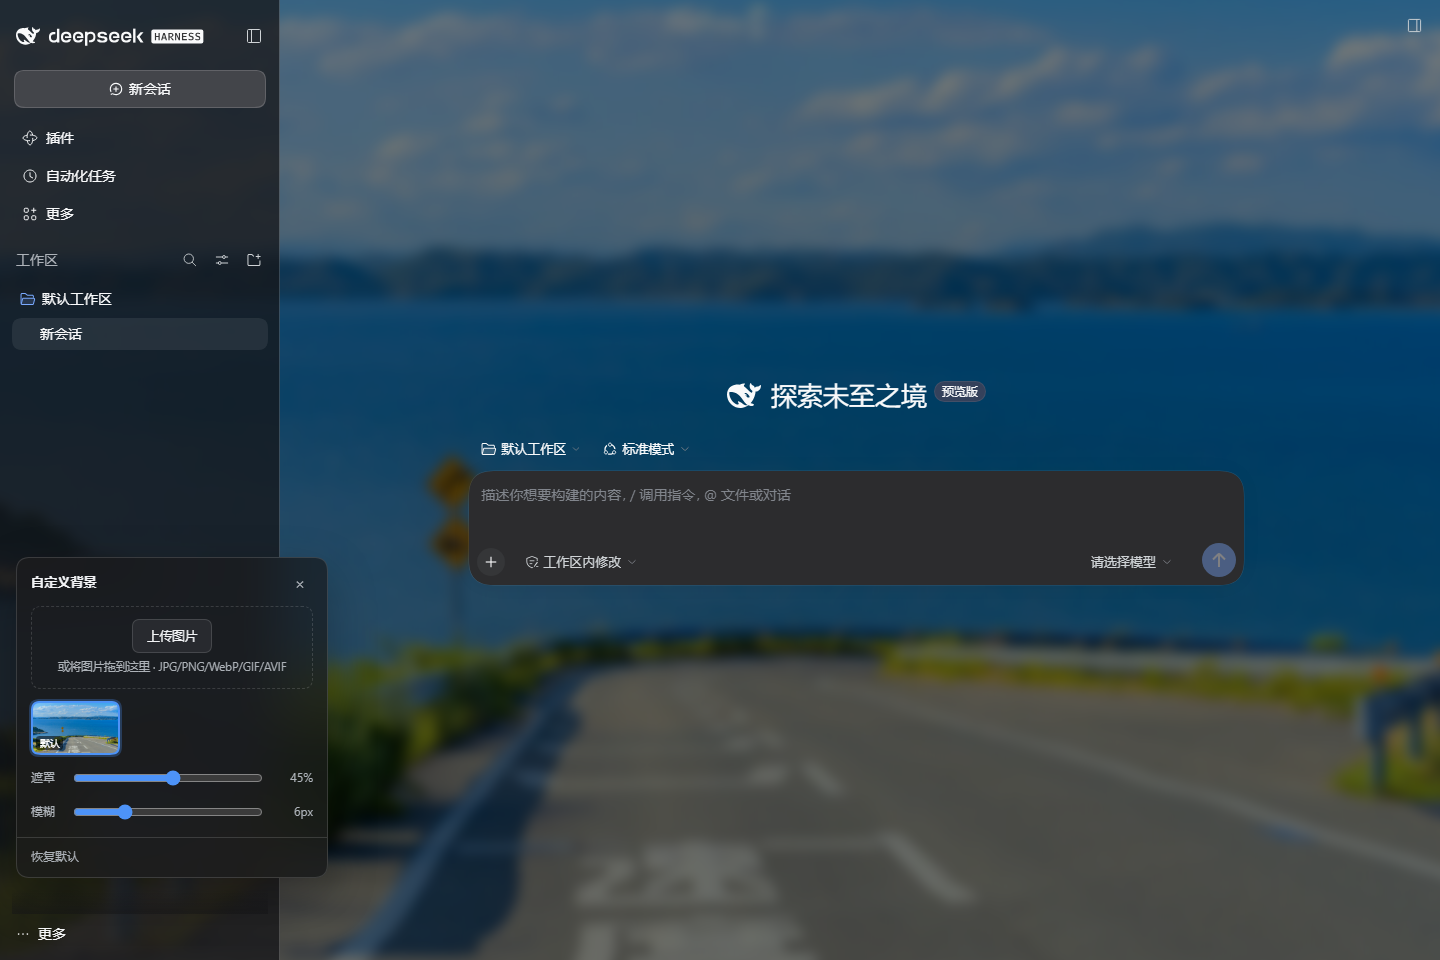
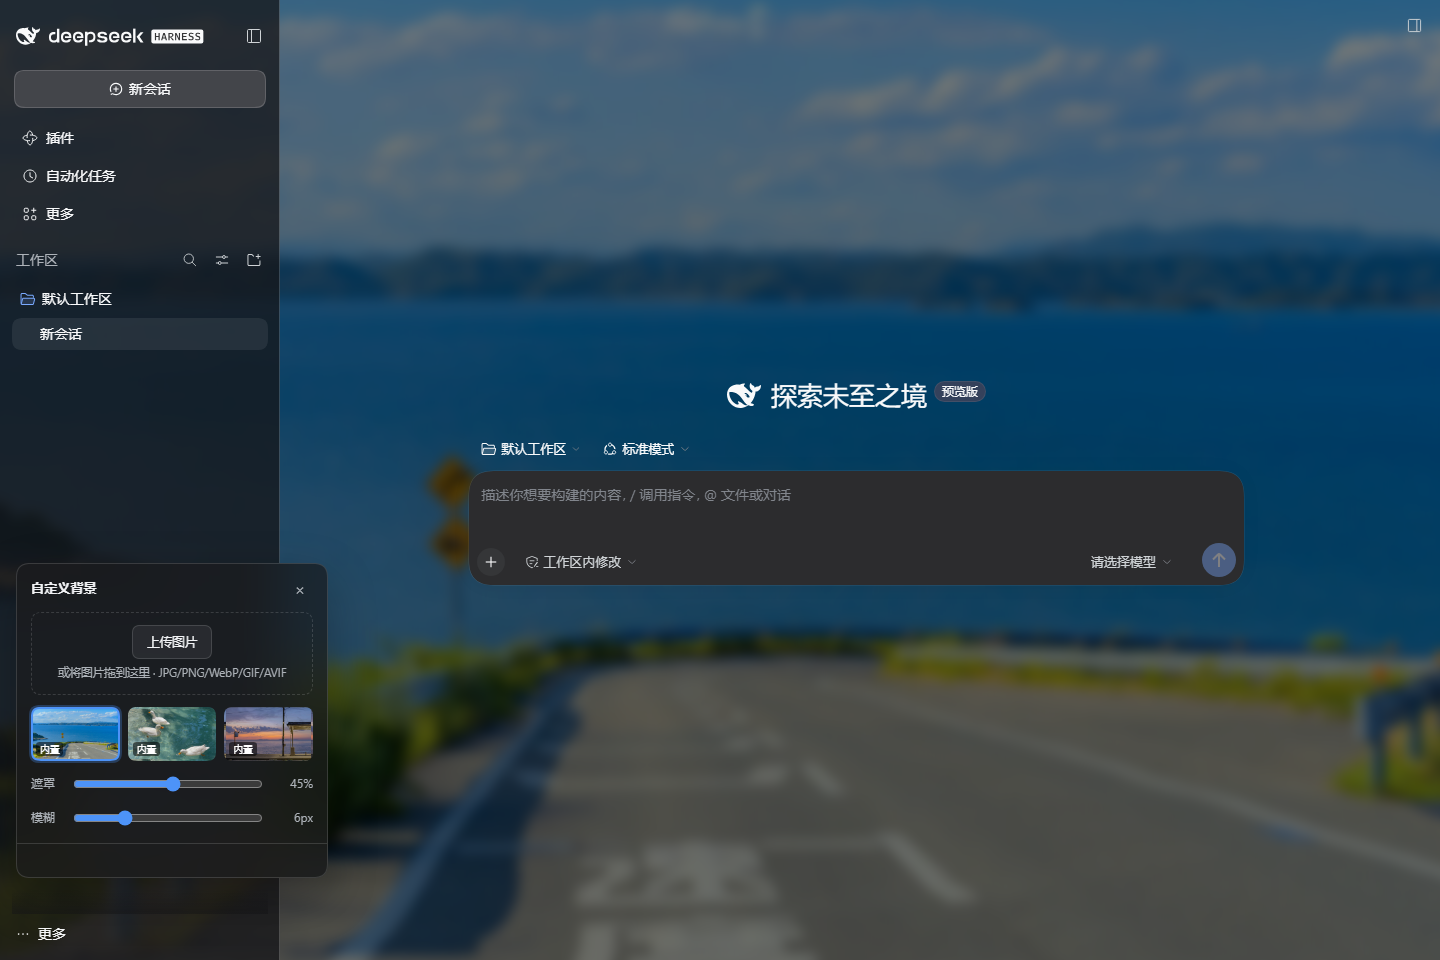
fix: 调整默认背景图片

Changed region(s): [[0.0, 0.625, 0.2188, 0.9062], [0.0, 0.5938, 0.0625, 0.625], [0.1875, 0.5625, 0.2188, 0.5938]]

diff --git a/lib/index.js b/lib/index.js
@@ -33,8 +33,16 @@ export const inject = ['webServer']
  */
 const ROUTE_PREFIX = '/custom-bg'
 
-/** Id of the built-in background shipped inside the package. */
-const DEFAULT_IMAGE = { id: 'default', ext: 'jpg', builtin: true, name: 'default.jpg' }
+/**
+ * Backgrounds shipped inside the package. `default` is the one a fresh profile
+ * starts on; the rest are ready-made wallpapers the panel offers next to the
+ * user's own uploads.
+ */
+const BUILTIN_IMAGES = [
+  { id: 'default', ext: 'jpg', file: 'default.jpg' },
+  { id: 'ducks', ext: 'jpg', file: 'ducks.jpg' },
+  { id: 'seaside', ext: 'jpg', file: 'seaside.jpg' },
+]
 
 /** Extensions the store accepts, mapped to the response content type. */
 const MIME = {
@@ -176,10 +184,20 @@ async function readJson(req) {
  * Create the wallpaper store: files under `dataDir`, settings in `state.json`.
  * Every mutation is serialized so interleaved uploads cannot lose an entry.
  * @param dataDir - absolute directory owned by this plugin.
- * @param builtinPath - absolute path of the shipped default image.
+ * @param builtinDir - absolute directory holding the shipped wallpapers.
  */
-function createStore(dataDir, builtinPath) {
+function createStore(dataDir, builtinDir) {
   const statePath = join(dataDir, 'state.json')
+  const builtins = BUILTIN_IMAGES.map((entry) => ({
+    id: entry.id,
+    ext: entry.ext,
+    file: entry.file,
+    path: join(builtinDir, entry.file),
+    builtin: true,
+    name: entry.file,
+  }))
+  /** Wallpaper a profile falls back to when its active image disappears. */
+  const fallbackId = builtins[0].id
   let queue = Promise.resolve()
   /** @type {{ active?: string, images?: object[], settings?: object }} */
   let cache
@@ -239,7 +257,16 @@ function createStore(dataDir, builtinPath) {
       builtin: false,
       url: imageUrl(entry.id, entry.ext),
     }))
-    const all = [{ ...DEFAULT_IMAGE, url: imageUrl(DEFAULT_IMAGE.id, DEFAULT_IMAGE.ext) }, ...images]
+    const all = [
+      ...builtins.map((entry) => ({
+        id: entry.id,
+        ext: entry.ext,
+        builtin: true,
+        name: entry.name,
+        url: imageUrl(entry.id, entry.ext),
+      })),
+      ...images,
+    ]
     const active = all.find((entry) => entry.id === state.active) ?? all[0]
     return { version: 1, active, images: all, settings: { ...state.settings } }
   }
@@ -274,7 +301,7 @@ function createStore(dataDir, builtinPath) {
   /** Activate an image that already exists. */
   async function select(id) {
     const state = await readState()
-    const known = id === DEFAULT_IMAGE.id || state.images.some((entry) => entry.id === id)
+    const known = builtins.some((entry) => entry.id === id) || state.images.some((entry) => entry.id === id)
     if (!known) return { error: 'unknown-image' }
     return mutate(async (draft) => {
       draft.active = id
@@ -282,15 +309,15 @@ function createStore(dataDir, builtinPath) {
     })
   }
 
-  /** Delete one uploaded image; the built-in background cannot be deleted. */
+  /** Delete one uploaded image; the bundled wallpapers cannot be deleted. */
   async function remove(id) {
-    if (id === DEFAULT_IMAGE.id) return { error: 'builtin-image' }
+    if (builtins.some((entry) => entry.id === id)) return { error: 'builtin-image' }
     const state = await readState()
     const entry = state.images.find((candidate) => candidate.id === id)
     if (entry === undefined) return { error: 'unknown-image' }
     return mutate(async (draft) => {
       draft.images = draft.images.filter((candidate) => candidate.id !== id)
-      if (draft.active === id) draft.active = DEFAULT_IMAGE.id
+      if (draft.active === id) draft.active = fallbackId
       await fs.rm(join(dataDir, `${entry.id}.${entry.ext}`), { force: true })
       return { id }
     })
@@ -312,7 +339,8 @@ function createStore(dataDir, builtinPath) {
    * @returns the file path, or undefined when nothing matches.
    */
   async function imageFile(id, ext) {
-    if (id === DEFAULT_IMAGE.id) return ext === DEFAULT_IMAGE.ext ? builtinPath : undefined
+    const builtin = builtins.find((entry) => entry.id === id)
+    if (builtin !== undefined) return ext === builtin.ext ? builtin.path : undefined
     const state = await readState()
     const entry = state.images.find((candidate) => candidate.id === id)
     if (entry === undefined || entry.ext !== ext) return undefined
@@ -335,8 +363,8 @@ function createStore(dataDir, builtinPath) {
  */
 export function apply(ctx, config = {}) {
   const dataDir = config.dataDir ?? join(resolveDshHome(config.dshHome), 'plugin-data', 'dsh-custom-bg')
-  const builtinPath = fileURLToPath(new URL('../imgs/default.jpg', import.meta.url))
-  const store = createStore(dataDir, builtinPath)
+  const builtinDir = fileURLToPath(new URL('../imgs', import.meta.url))
+  const store = createStore(dataDir, builtinDir)
   const imagePattern = /^([a-z0-9-]{2,40})\.(jpe?g|png|webp|gif|avif)$/u
 
   /**

diff --git a/lib/client.js b/lib/client.js
@@ -80,10 +80,8 @@ body[data-ds-dark-theme]{--dsw-specific-sidebar-fill:rgba(21,21,23,var(--cbg-sid
 #${ROOT_ID} .cbg-row label{width:30px;color:var(--cbg-label-dim);flex:none}
 #${ROOT_ID} .cbg-row input[type=range]{flex:1;min-width:0;accent-color:#4d93f8;height:18px;cursor:pointer}
 #${ROOT_ID} .cbg-row output{width:38px;text-align:right;font-variant-numeric:tabular-nums;color:var(--cbg-label-dim)}
-#${ROOT_ID} .cbg-foot{display:flex;align-items:center;justify-content:space-between;gap:8px;padding:10px 14px 12px;
+#${ROOT_ID} .cbg-foot{display:flex;align-items:center;justify-content:flex-end;gap:8px;padding:10px 14px 12px;
   border-top:1px solid var(--cbg-border);margin-top:10px}
-#${ROOT_ID} .cbg-link{border:0;background:transparent;color:var(--cbg-label-dim);font:inherit;font-size:12px;cursor:pointer;padding:0}
-#${ROOT_ID} .cbg-link:hover{color:var(--cbg-label);text-decoration:underline}
 #${ROOT_ID} .cbg-status{font-size:11.5px;color:var(--cbg-label-dim);min-height:1em;flex:1;text-align:right;
   overflow:hidden;text-overflow:ellipsis;white-space:nowrap}
 @media (prefers-reduced-motion:reduce){#${ROOT_ID} *{transition:none!important}}
@@ -168,7 +166,6 @@ body[data-ds-dark-theme]{--dsw-specific-sidebar-fill:rgba(21,21,23,var(--cbg-sid
       const blurOut = el('output', { text: '6px' })
 
       const status = el('span', { class: 'cbg-status' })
-      const resetButton = el('button', { class: 'cbg-link', type: 'button', text: '恢复默认' })
       const closeButton = el('button', { class: 'cbg-icon-btn', type: 'button', title: '收起', 'aria-label': '收起', text: '×' })
       const bubble = el('button', {
         class: 'cbg-bubble',
@@ -191,7 +188,7 @@ body[data-ds-dark-theme]{--dsw-specific-sidebar-fill:rgba(21,21,23,var(--cbg-sid
           el('div', { class: 'cbg-row' }, [el('label', { text: '遮罩' }), scrimRange, scrimOut]),
           el('div', { class: 'cbg-row' }, [el('label', { text: '模糊' }), blurRange, blurOut]),
         ]),
-        el('div', { class: 'cbg-foot' }, [resetButton, status]),
+        el('div', { class: 'cbg-foot' }, [status]),
       ])
 
       const root = el('div', { id: ROOT_ID, dataset: { open: 'false' } }, [bubble, panel])
@@ -222,15 +219,16 @@ body[data-ds-dark-theme]{--dsw-specific-sidebar-fill:rgba(21,21,23,var(--cbg-sid
       function renderGrid(active) {
         grid.replaceChildren()
         for (const image of state.images ?? []) {
+          const label = image.builtin === true ? `内置 · ${image.name ?? image.id}` : image.name ?? image.id
           const thumb = el('button', {
             class: 'cbg-thumb',
             type: 'button',
-            title: image.builtin ? '默认背景' : image.name ?? image.id,
-            'aria-label': image.builtin ? '默认背景' : image.name ?? image.id,
+            title: label,
+            'aria-label': label,
             dataset: { active: String(active?.id === image.id) },
           })
           if (image.url !== undefined) thumb.style.backgroundImage = `url("${imageHref(image.url)}")`
-          if (image.builtin === true) thumb.append(el('span', { class: 'cbg-badge', text: '默认' }))
+          if (image.builtin === true) thumb.append(el('span', { class: 'cbg-badge', text: '内置' }))
           else {
             const remove = el('button', {
               class: 'cbg-del',
@@ -351,10 +349,6 @@ body[data-ds-dark-theme]{--dsw-specific-sidebar-fill:rgba(21,21,23,var(--cbg-sid
       closeButton.addEventListener('click', () => setOpen(false))
       uploadButton.addEventListener('click', () => uploadInput.click())
       uploadInput.addEventListener('change', () => void upload(uploadInput.files?.[0]))
-      resetButton.addEventListener('click', () => {
-        const builtin = (state.images ?? []).find((image) => image.builtin === true)
-        if (builtin !== undefined) void mutate('api/select', { id: builtin.id }, '已恢复默认背景')
-      })
 
       let settingsTimer
       /** Debounce a settings write while the user drags a slider. */

diff --git a/README.md b/README.md
@@ -3,16 +3,16 @@
 English | [中文](README.zh.md)
 
 A wallpaper for DeepSeek Harness. A small floating panel in the bottom-left
-corner uploads images, switches between them, and tunes the scrim and blur. The
-default background ships inside the package (`imgs/default.jpg`), so the plugin
-has something to show the moment it is enabled.
+corner uploads images, switches between them, and tunes the scrim and blur.
+Three wallpapers ship inside the package (`imgs/`), so the plugin has something
+to show the moment it is enabled.
 
 ![Floating panel](docs/panel.png)
 
 ## Features
 
 - **Bottom-left floating panel** — a 44px button that expands into a 312px card; it never takes layout space.
-- **Bundled default background** — `imgs/default.jpg` is served straight from the package, no network needed.
+- **Three bundled wallpapers** — `default.jpg`, `ducks.jpg` and `seaside.jpg` live in `imgs/` and are served straight from the package, no network needed.
 - **Upload and apply** — pick a file or drop an image onto the panel. JPG, PNG, WebP, GIF and AVIF up to 24 MB.
 - **Keep several images** — every upload stays as a thumbnail; click to switch, hover to delete. Re-uploading the same bytes stores it once.
 - **Scrim and blur** — two sliders keep text readable: scrim 0–85%, blur 0–24px. The scrim also drives the sidebar and title bar: at 0 they step aside and the wallpaper fills the whole window, not just the chat column.
@@ -56,10 +56,9 @@ dsh plugin --profile web add "git+https://github.com/wuqiwenpk/dsh-custom-bg.git
 
 1. Click the wallpaper button in the bottom-left corner.
 2. **Upload** — press “上传图片” or drop an image onto the panel. The upload becomes the active background immediately.
-3. **Switch** — click a thumbnail. The one labelled 默认 is the bundled background.
+3. **Switch** — click a thumbnail. The ones labelled 内置 are the bundled wallpapers, and they are always there.
 4. **Tune** — drag 遮罩 to dim or lift the wallpaper, drag 模糊 to push it back.
-5. **Reset** — “恢复默认” returns to `default.jpg`.
-6. **Collapse** — the × in the header, or `Esc`; the panel remembers whether it was open.
+5. **Collapse** — the × in the header, or `Esc`; the panel remembers whether it was open.
 
 ## Data and configuration
 
@@ -67,7 +66,7 @@ dsh plugin --profile web add "git+https://github.com/wuqiwenpk/dsh-custom-bg.git
 |---|---|
 | Uploaded images | `$DSH_HOME/plugin-data/dsh-custom-bg/<id>.<ext>` |
 | Active image and sliders | `$DSH_HOME/plugin-data/dsh-custom-bg/state.json` |
-| Bundled default | `imgs/default.jpg` inside the package |
+| Bundled wallpapers | `imgs/*.jpg` inside the package (three) |
 
 `$DSH_HOME` defaults to `~/.dsh`. Uninstalling keeps this data; delete the
 directory to remove it.
@@ -91,7 +90,7 @@ The Host half claims the `/custom-bg` prefix:
 | GET | `/custom-bg/image/<id>.<ext>` | Image bytes, long-lived cache |
 | POST | `/custom-bg/api/upload` | Raw image body (optional `x-file-name`); stored and activated |
 | POST | `/custom-bg/api/select` | `{"id": "..."}` |
-| POST | `/custom-bg/api/delete` | `{"id": "..."}`; the bundled background is not deletable |
+| POST | `/custom-bg/api/delete` | `{"id": "..."}`; bundled wallpapers are not deletable |
 | POST | `/custom-bg/api/settings` | `{"scrim": 0..0.85, "blur": 0..24}`, clamped |
 
 Cross-site requests are refused (`Sec-Fetch-Site` / `Origin`), and uploads are
@@ -107,7 +106,7 @@ sniffed by signature — mislabelled bodies get 415.
 - **No wallpaper appears** — another theme/appearance plugin may be writing `--dsw-alias-bg-base` back; keep one of them enabled.
 - **Why the panel sits 82px above the bottom edge** — so it clears the sidebar's footer row (settings, more, account) instead of covering it.
 - **Upload rejected** — formats are checked by file signature, so a renamed file gets 415; the limit is 24 MB.
-- **Start clean** — delete `$DSH_HOME/plugin-data/dsh-custom-bg/` and the bundled default comes back.
+- **Start clean** — delete `$DSH_HOME/plugin-data/dsh-custom-bg/` and the three bundled wallpapers come back.
 
 ## Development
 
